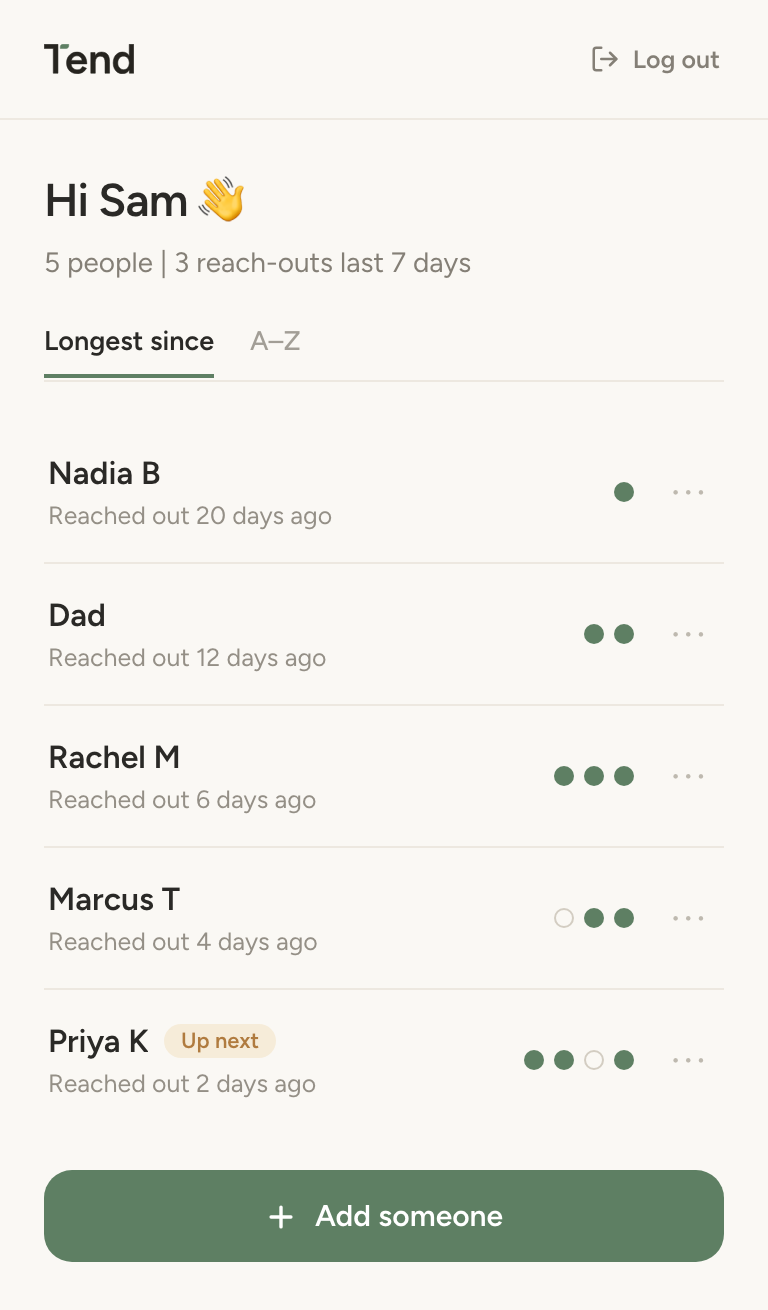
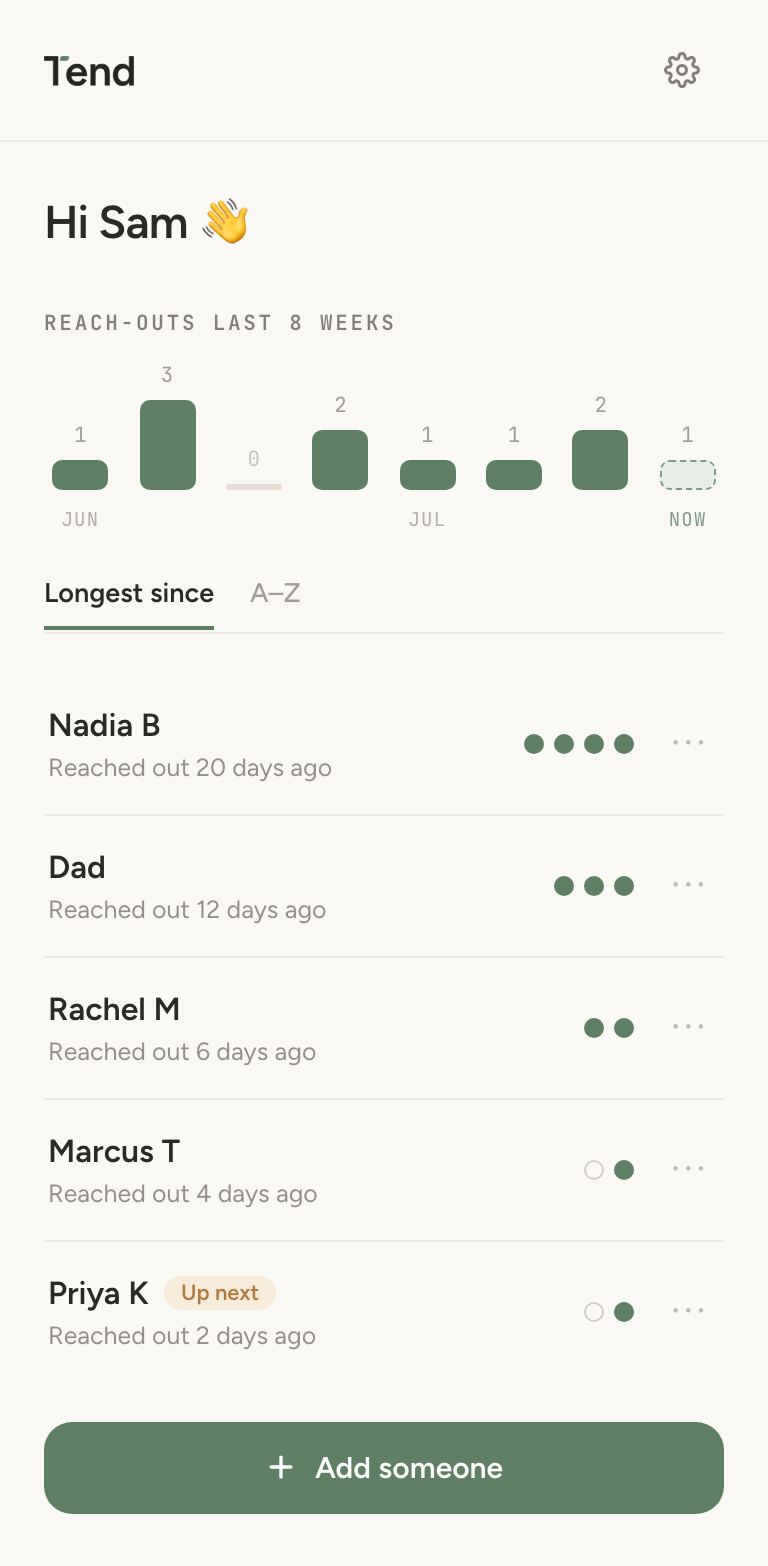
Refresh dashboard screenshot: activity chart + settings gear
Regenerated from the real app. Same five people and recency as before, so the
visible changes are the weekly reach-out bars replacing the summary line and
the header gear replacing the old "Log out" link. Alt text mentions the chart.

diff --git a/index.html b/index.html
@@ -324,7 +324,7 @@
                 <div style="width:100%;max-width:250px;flex-shrink:0;">
                     <div style="font-family:'JetBrains Mono',monospace;font-size:10px;font-weight:600;letter-spacing:.14em;text-transform:uppercase;color:#A29E96;margin-bottom:12px;text-align:center;">The dashboard</div>
                     <div style="border:1px solid #EAE5DC;border-radius:20px;overflow:hidden;box-shadow:0 6px 18px rgba(40,35,28,.06);">
-                        <img src="app-preview.png" alt="The Tend web dashboard: your people, when you last reached out to each, an up-next nudge, and a button to add someone." style="display:block;width:100%;">
+                        <img src="app-preview.png" alt="The Tend web dashboard: a bar chart of your reach-outs over the last eight weeks, then your people, when you last reached out to each, an up-next nudge, and a button to add someone." style="display:block;width:100%;">
                     </div>
                 </div>
             </div>
